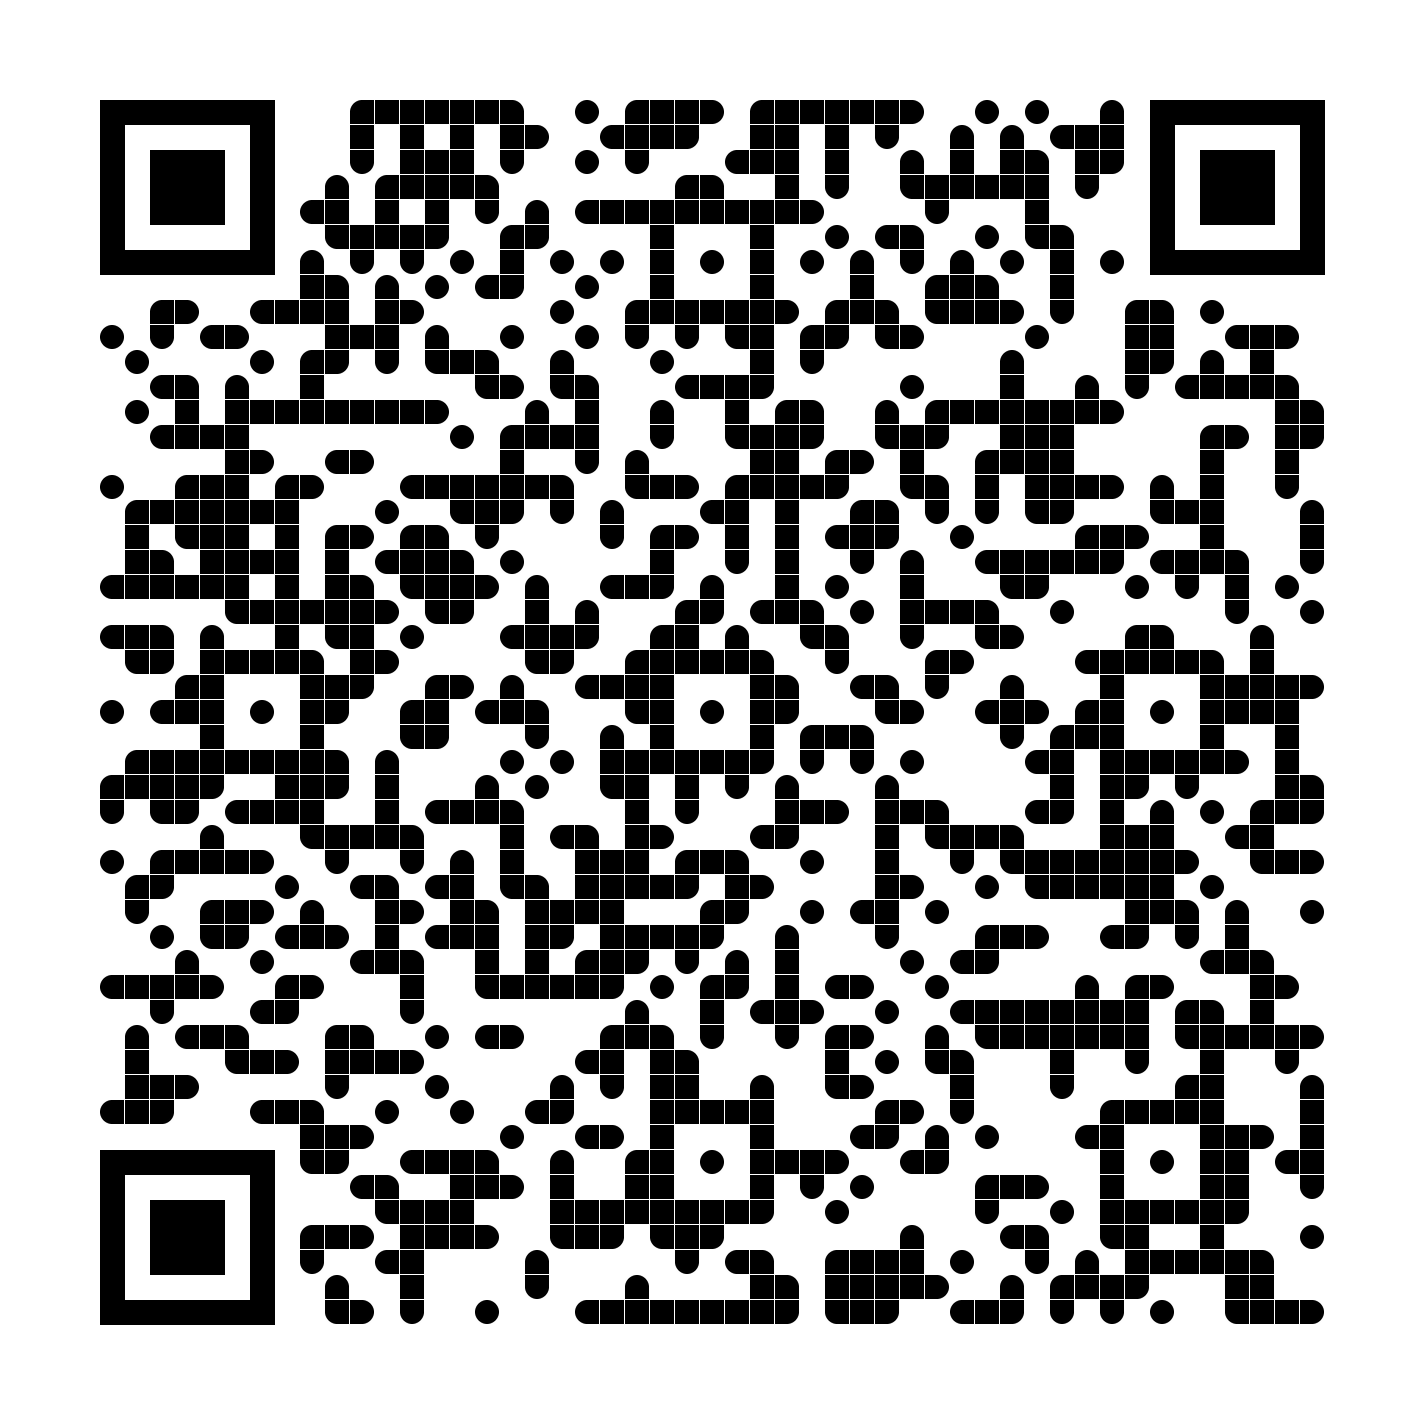
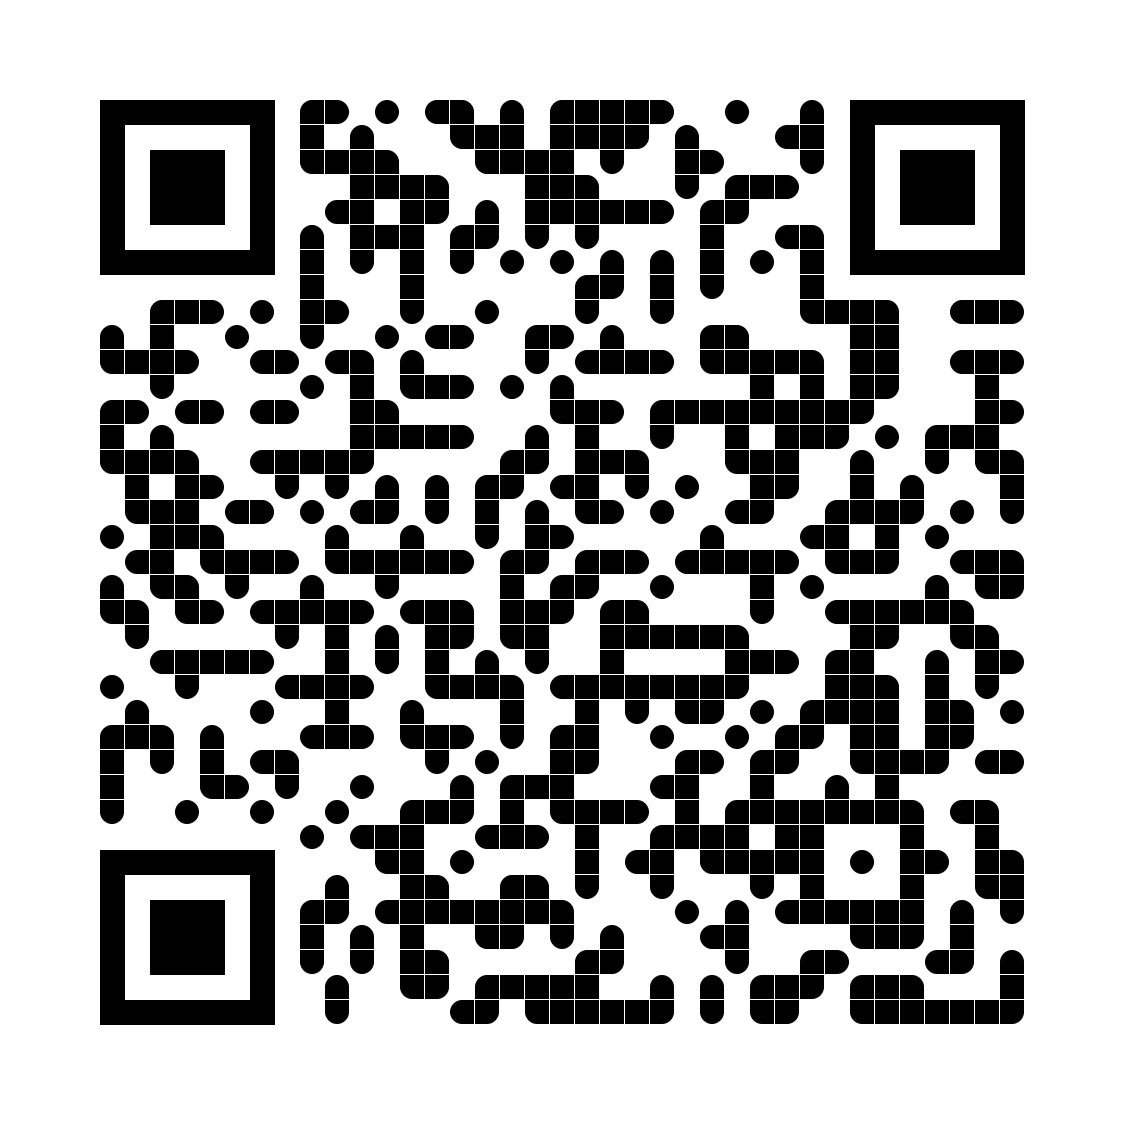
fix(qr): revert to official maps link to resolve 404 on unclaimed profile

diff --git a/hotel_qr_code/hotel_qr.py b/hotel_qr_code/hotel_qr.py
@@ -4,7 +4,8 @@ from qrcode.constants import ERROR_CORRECT_H
 from qrcode.image.styledpil import StyledPilImage
 from qrcode.image.styles.moduledrawers.pil import RoundedModuleDrawer
 
-REVIEW_URL = "https://search.google.com/local/writereview?placeid=ChIJS4FNIggrOjoRTYFNACMrMzA"
+# Official working Google Maps link for N Hotels Pithapuram (no 404 error)
+REVIEW_URL = "https://maps.app.goo.gl/8FMHXgKL3wXwUEBW8"
 OUTPUT_FILE = Path("n_hotels_styled_qr.png")
 
 qr = qrcode.QRCode(
